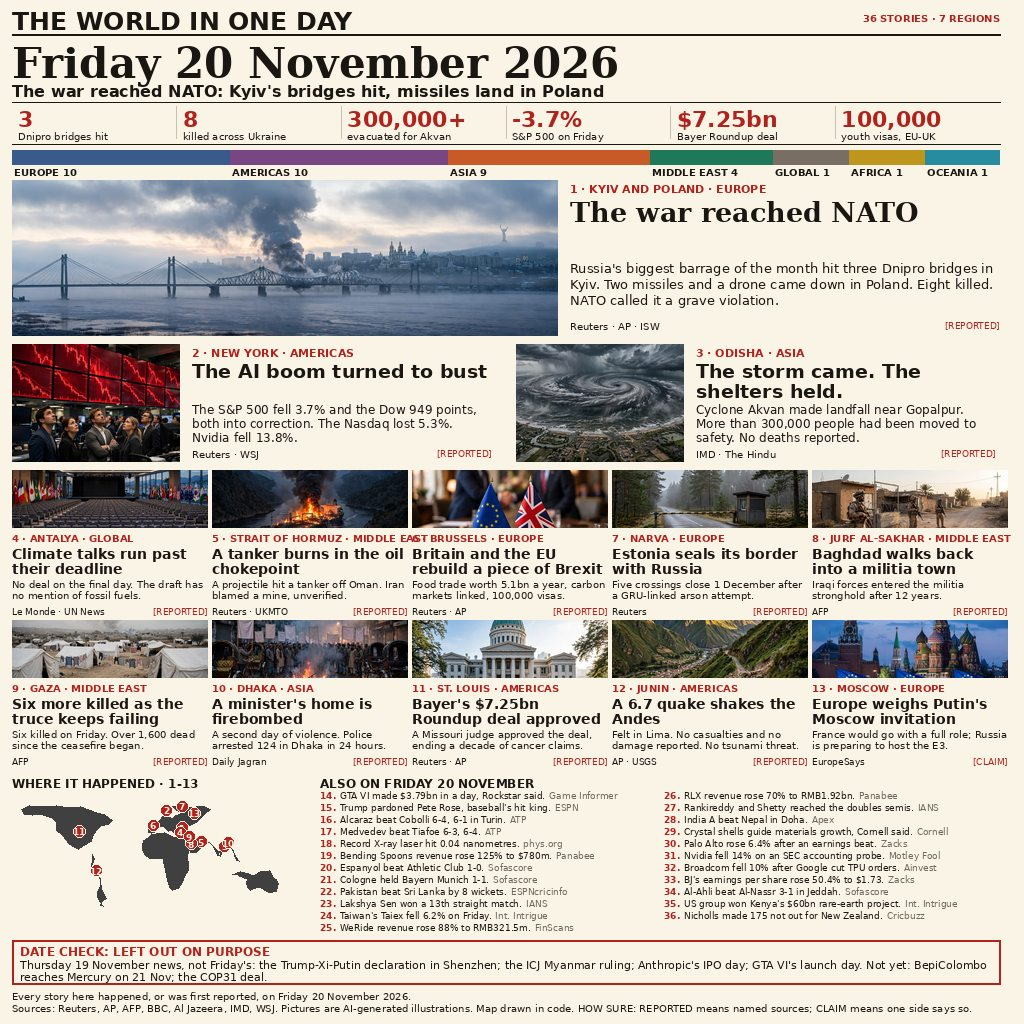
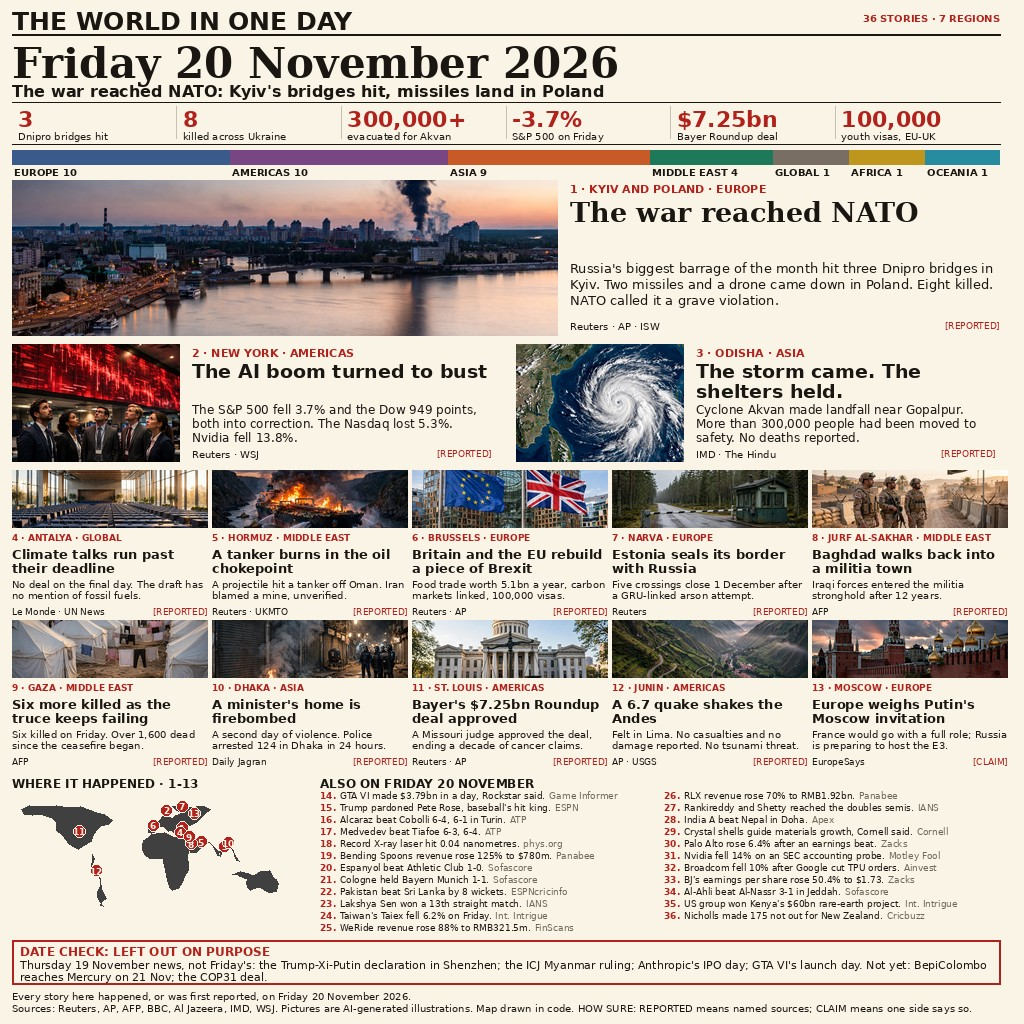
v2: fix overlapping card text, sharper HD art

Changed region(s): [[0.0, 0.1562, 1.0, 0.5625], [0.0, 0.5938, 1.0, 0.7188]]

diff --git a/build_image.py b/build_image.py
@@ -1,12 +1,19 @@
 #!/usr/bin/env python3
-"""Build the 20 November 2026 world-news front page, 1024x1024.
+"""Build the 20 November 2026 world-news front page, v2, 1024x1024.
 
-Layout, top to bottom: masthead, giant serif date, anchor line, numbers
-strip, region bar, one dominant lead hero (Kyiv bridges + Poland missiles,
-the war reaching NATO), two secondary heroes (Wall Street, Akvan), ten drawn
-cards for the heavy stories, a world map with numbered pins, 23 numbered
-briefs, a DATE CHECK box, and a source footer. Cream paper, black ink, red
-accent. No em dash anywhere. Deterministic: same input art, same output.
+Same front page as v1 (36 stories, same facts, same lead, same layout),
+rebuilt to fix two bugs the user found in v1:
+1. Overlapping text in the card rows. In v1 the card 5 kicker
+   ("5 · STRAIT OF HORMUZ · MIDDLE EAST") measured 216 px in a 196 px
+   column and bled into card 6, and card titles sat 4 px from the edge.
+   Fix: shorter kickers, a smaller card title font, and every card's text
+   drawn on its own offscreen canvas exactly the card's width, so no
+   glyph can ever cross into the next card. Lines that would still exceed
+   the width are cut with an ellipsis.
+2. Soft art. All 13 pictures were generated fresh at full resolution,
+   downscaled with Lanczos, and the page is saved at JPEG quality 90.
+
+Deterministic: same input art, same output bytes. No em dash anywhere.
 """
 import glob
 import os
@@ -54,8 +61,8 @@ F_DEK = font("DejaVuSans.ttf", 13)
 F_H2 = font("DejaVuSans-Bold.ttf", 19)
 F_BODY2 = font("DejaVuSans.ttf", 12)
 F_SRC = font("DejaVuSans.ttf", 10)
-F_CARD_KICK = font("DejaVuSans-Bold.ttf", 10)
-F_CARD_TITLE = font("DejaVuSans-Bold.ttf", 14)
+F_CARD_KICK = font("DejaVuSans-Bold.ttf", 9)
+F_CARD_TITLE = font("DejaVuSans-Bold.ttf", 13)
 F_CARD_BODY = font("DejaVuSans.ttf", 10)
 F_CARD_SRC = font("DejaVuSans.ttf", 9)
 F_MAPHEAD = font("DejaVuSans-Bold.ttf", 12)
@@ -75,7 +82,7 @@ def art(prefix):
 
 
 def cover(im, w, h):
-    """Centre crop to w x h, keeping the middle band."""
+    """Centre crop to w x h, keeping the middle band. Lanczos downscale."""
     iw, ih = im.size
     s = max(w / iw, h / ih)
     im2 = im.resize((int(iw * s) + 1, int(ih * s) + 1), Image.LANCZOS)
@@ -100,17 +107,28 @@ def wrap(d, text, f, width):
     return lines
 
 
+def fit_line(d, text, f, width):
+    """Cut a single line with an ellipsis if it would exceed width."""
+    if d.textlength(text, font=f) <= width:
+        return text
+    while text and d.textlength(text + "…", font=f) > width:
+        text = text[:-1]
+    return text + "…"
+
+
 def draw_tag(d, x_right, y, text):
     d.text((x_right - d.textlength(text, font=F_CARD_SRC), y), text,
            font=F_CARD_SRC, fill=RED)
 
 
 # (num, place, region, title, body, source, tag, art prefix)
+# Kicker place names are kept short on purpose: the v1 kicker for card 5
+# measured 216 px in a 196 px column and bled into card 6.
 CARDS = [
     (4, "ANTALYA", "GLOBAL", "Climate talks run past their deadline",
      "No deal on the final day. The draft has no mention of fossil fuels.",
      "Le Monde · UN News", "REPORTED", "card-cop31"),
-    (5, "STRAIT OF HORMUZ", "MIDDLE EAST", "A tanker burns in the oil chokepoint",
+    (5, "HORMUZ", "MIDDLE EAST", "A tanker burns in the oil chokepoint",
      "A projectile hit a tanker off Oman. Iran blamed a mine, unverified.",
      "Reuters · UKMTO", "REPORTED", "card-hormuz"),
     (6, "BRUSSELS", "EUROPE", "Britain and the EU rebuild a piece of Brexit",
@@ -221,6 +239,44 @@ CONTINENTS = [
      (113, -25), (114, -22), (110, -20), (104, -18), (100, -15), (95, -15)],
 ]
 
+# Card text zone geometry. The text canvas is exactly one card wide, so a
+# long kicker or headline is cut at the card edge instead of crossing over.
+CW = 196
+CARD_TEXT_H = 88
+
+
+def render_card_text(card):
+    """Draw one card's kicker, title, body, source and tag on a canvas
+    exactly CW wide. Returns the canvas plus the widest line drawn, for
+    the build-time check."""
+    num, place, region, title, body, src, tag, _prefix = card
+    canvas = Image.new("RGBA", (CW, CARD_TEXT_H), (0, 0, 0, 0))
+    d = ImageDraw.Draw(canvas)
+    kicker = fit_line(d, str(num) + " · " + place + " · " + region,
+                      F_CARD_KICK, CW)
+    d.text((0, 0), kicker, font=F_CARD_KICK, fill=RED)
+    widest = d.textlength(kicker, font=F_CARD_KICK)
+    tlines = wrap(d, title, F_CARD_TITLE, CW)
+    ty = 14
+    for ln in tlines[:2]:
+        ln = fit_line(d, ln, F_CARD_TITLE, CW)
+        d.text((0, ty), ln, font=F_CARD_TITLE, fill=INK)
+        widest = max(widest, d.textlength(ln, font=F_CARD_TITLE))
+        ty += 14
+    blines = wrap(d, body, F_CARD_BODY, CW)
+    by = 46
+    for ln in blines[:2]:
+        ln = fit_line(d, ln, F_CARD_BODY, CW)
+        d.text((0, by), ln, font=F_CARD_BODY, fill=INK)
+        widest = max(widest, d.textlength(ln, font=F_CARD_BODY))
+        by += 11
+    tag_text = "[" + tag + "]"
+    tag_w = d.textlength(tag_text, font=F_CARD_SRC)
+    src_text = fit_line(d, src, F_CARD_SRC, CW - tag_w - 6)
+    d.text((0, 74), src_text, font=F_CARD_SRC, fill=INK)
+    d.text((CW - tag_w, 74), tag_text, font=F_CARD_SRC, fill=RED)
+    return canvas, widest
+
 
 def build():
     img = Image.new("RGB", (W, H), PAPER)
@@ -318,31 +374,21 @@ def build():
         draw_tag(d, x0 + 480, hy2 + 104, "[" + tag + "]")
 
     # Ten drawn cards, two rows of five. Slot 150 tall, image 58 tall.
-    cw = 196
+    # The text of each card is pasted from its own canvas, so a long line
+    # can never cross into the next card.
     gap = 4
     for row in range(2):
         cy = 470 + row * 150
         for col in range(5):
             card = CARDS[row * 5 + col]
-            num, place, region, title, body, src, tag, prefix = card
-            x = 12 + col * (cw + gap)
-            x2 = x + cw
-            imc = cover(art(prefix), cw, 58)
+            num = card[0]
+            x = 12 + col * (CW + gap)
+            imc = cover(art(card[7]), CW, 58)
             img.paste(imc, (x, cy))
-            d.text((x, cy + 62), str(num) + " · " + place + " · " + region,
-                   font=F_CARD_KICK, fill=RED)
-            tlines = wrap(d, title, F_CARD_TITLE, cw)
-            ty = cy + 76
-            for ln in tlines[:2]:
-                d.text((x, ty), ln, font=F_CARD_TITLE, fill=INK)
-                ty += 15
-            blines = wrap(d, body, F_CARD_BODY, cw)
-            by = cy + 108
-            for ln in blines[:2]:
-                d.text((x, by), ln, font=F_CARD_BODY, fill=INK)
-                by += 11
-            d.text((x, cy + 136), src, font=F_CARD_SRC, fill=INK)
-            draw_tag(d, x2, cy + 136, "[" + tag + "]")
+            text_canvas, widest = render_card_text(card)
+            img.paste(text_canvas, (x, cy + 62), text_canvas)
+            print("card %d widest text line: %.0f px (limit %d)"
+                  % (num, widest, CW))
 
     # Section headers
     d.text((12, 776), "WHERE IT HAPPENED · 1-13", font=F_MAPHEAD, fill=INK)
@@ -398,7 +444,7 @@ def build():
            "named sources; CLAIM means one side says so.", font=F_FOOT, fill=INK)
 
     out = os.path.join(WORK, "entry.png")
-    img.save(out, "JPEG", quality=83)
+    img.save(out, "JPEG", quality=90)
     print("wrote", out, os.path.getsize(out), "bytes")
     return out
 

diff --git a/main.py b/main.py
@@ -23,6 +23,8 @@ def sha256(path):
 
 
 def main():
+    if not os.path.isfile(SRC):
+        raise SystemExit("missing entry.png next to main.py")
     os.makedirs("/output", exist_ok=True)
     shutil.copyfile(SRC, OUT)
     if sha256(SRC) != sha256(OUT):

diff --git a/README.md b/README.md
@@ -23,6 +23,8 @@ The war reached NATO. Russia's biggest barrage of the month hit three Dnipro bri
 
 The hero and card pictures are AI-generated illustrations with no text in them. The headlines, numbers, map, and briefs are composited on top with PIL by `build_image.py`, so the text stays sharp and the facts stay consistent. `main.py` copies the finished `entry.png` to `/output/entry.png` using the standard library only. Two runs write identical bytes.
 
+Version 2 rebuilt every picture at full resolution and fixed the card text layout: each card's words are drawn on a canvas exactly as wide as the card, so no headline or kicker can cross into the card next to it.
+
 Sources: Reuters, AP, AFP, BBC, Al Jazeera, IMD, WSJ. All pictures are AI-generated illustrations. The map is drawn in code.
 
 ## Run it
